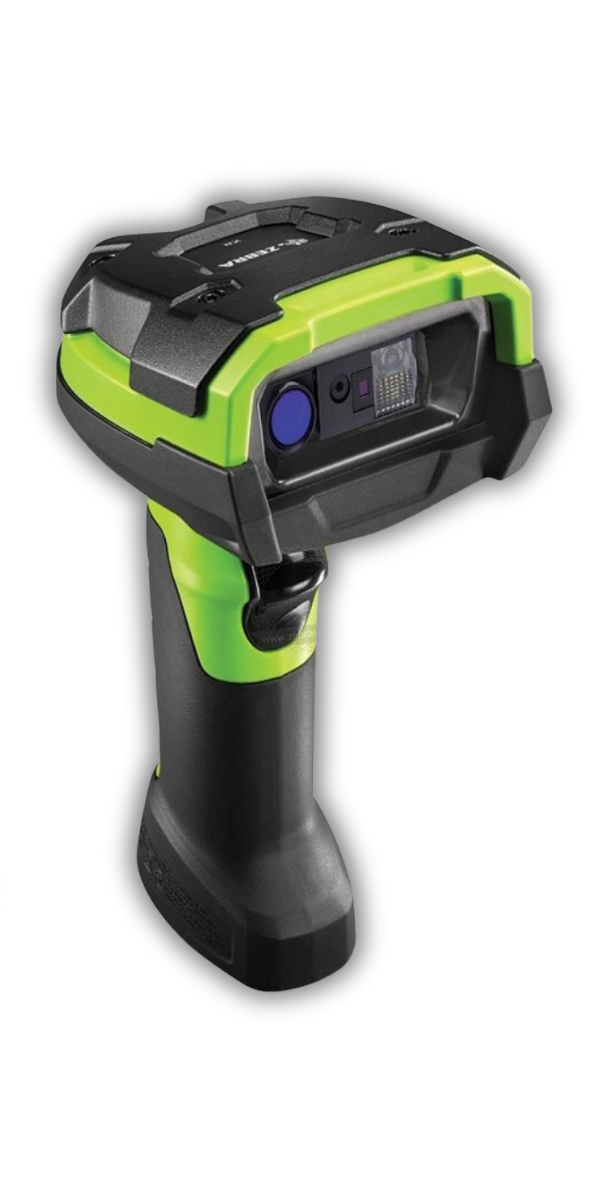
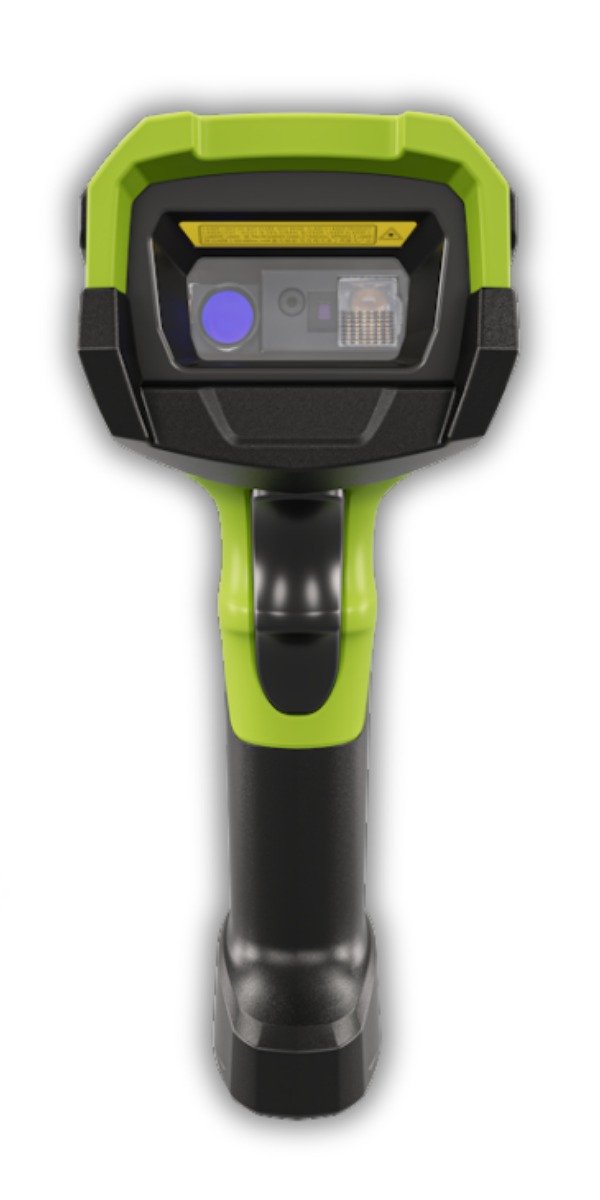
feat: Add DS3608-XR product images (3 photos: front, side, back)

diff --git a/src/data/products.ts b/src/data/products.ts
@@ -8406,9 +8406,13 @@ Dokumentacja: zebra.com/ds3608.`,
     priceFrom: 2417,
     images: [
       '/images/products/zebra-ds3608-xr.png',
+      '/images/products/zebra-ds3608-xr-2.png',
+      '/images/products/zebra-ds3608-xr-3.png',
     ],
     imageDescriptions: [
-      'Zebra DS3608-XR zielony — widok z boku, ultra-wytrzymały skaner dalekiego zasięgu z celownikiem laserowym',
+      'Zebra DS3608-XR zielony — widok z przodu, okno skanera z celownikiem laserowym i podwójnym sensorem',
+      'Zebra DS3608-XR zielony — widok z boku, masywna obudowa ultra-rugged IP65/IP68',
+      'Zebra DS3608-XR zielony — widok z tyłu, ergonomiczny uchwyt z gumowaną nakładką',
     ],
     tags: ['magazyn', 'logistyka', 'produkcja', 'outdoor'],
     availability: 'available',
